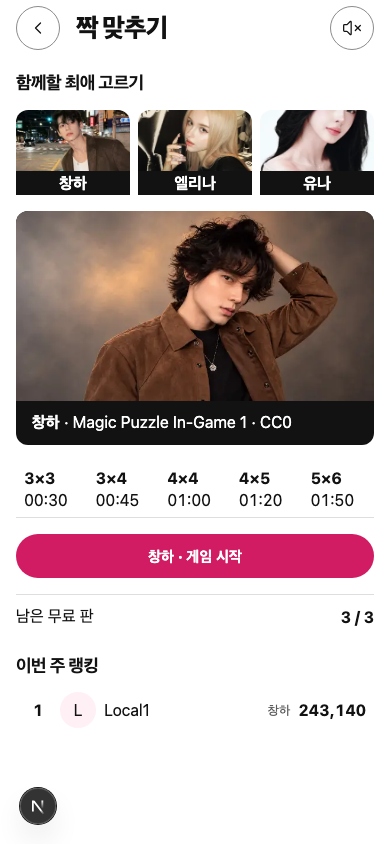
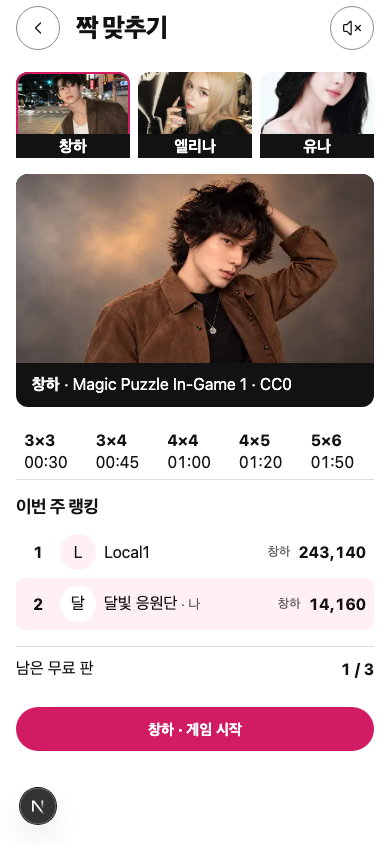
Align lobby controls and round results with the approved layout

diff --git a/apps/web/app/chemi/games/match/screen.tsx b/apps/web/app/chemi/games/match/screen.tsx
@@ -171,6 +171,7 @@ function Session({
   const [publicRows, setPublicRows] = useState<Row[] | null>(null);
   const [challenge, setChallenge] = useState<Challenge | null>(null);
   const [ticket, setTicket] = useState<Ticket | null>(null);
+  const [priorRank, setPriorRank] = useState<number | null>(null);
   const [result, setResult] = useState<Finish | null>(null);
   const [pendingFinish, setPendingFinish] = useState<Submission | null>(null);
   const [error, setError] = useState("");
@@ -318,6 +319,7 @@ function Session({
         throw e;
       }
       startKey.current.choice = "";
+      setPriorRank(lobby?.ranking.find(row => row.isMe)?.place ?? null);
       setTicket(next);
       setResult(null);
       setPendingFinish(null);
@@ -418,7 +420,7 @@ function Session({
       song.pause();
     };
   }, [sound, character, stage]);
-  function ring(enable: boolean) {
+  function ring(enable: boolean, frequency = 440) {
     if (!enable) return;
     try {
       audio.current ??= new AudioContext();
@@ -426,6 +428,7 @@ function Session({
       void context.resume().catch(() => {});
       const tone = context.createOscillator(),
         gain = context.createGain();
+      tone.frequency.value = frequency;
       gain.gain.setValueAtTime(0.035, context.currentTime);
       gain.gain.exponentialRampToValueAtTime(0.001, context.currentTime + 0.09);
       tone.connect(gain).connect(context.destination);
@@ -568,7 +571,7 @@ function Session({
           )}
         </div>
       )}
-      <div className={styles.layout} data-playing={Boolean(active)}>
+      <div className={styles.layout} data-lobby={stage === "start" && !share} data-playing={Boolean(active)}>
         <section className={styles.content}>
           {stage === "start" &&
             (share ? (
@@ -597,8 +600,8 @@ function Session({
               </>
             ) : (
               <>
-                <FanHeading as="h2">{copy.choose}</FanHeading>
-                <div className={styles.choices}>
+
+                <div className={styles.choices} role="group" aria-label={copy.choose}>
                   {characters.map((c) => (
                     <FanAction
                       variant="text"
@@ -626,9 +629,11 @@ function Session({
                   <p><b>{copy[character]}</b> · {["Magic Puzzle In-Game 1","Magic Puzzle In-Game 2","Cozy Puzzle In-Game 1"][characters.indexOf(character)]} · CC0</p>
                 </div>
                 {levelList}
-                <StageAction disabled={working || !auth.ready || (auth.authenticated && !lobby)} onClick={() => void start(character)}>
-                  {copy[character]} · {copy.start}
-                </StageAction>
+                <div className={styles.startAction}>
+                  <StageAction disabled={working || !auth.ready || (auth.authenticated && !lobby)} onClick={() => void start(character)}>
+                    {copy[character]} · {copy.start}
+                  </StageAction>
+                </div>
                 {lobby?.previous && (
                   <p className={styles.detail}>
                     {copy.lastWeek} <b>{lobby.previous.place}</b>
@@ -645,7 +650,7 @@ function Session({
             <>
               <div className={styles.stageLine}><span>{copy.record}</span><strong className={numberStyles.xl}>{active.score.toLocaleString(locale)}</strong></div>
               <progress aria-label={copy.time} data-urgent={active.remaining <= FPS * 10} value={active.remaining} max={LEVELS[active.stage-1].seconds * FPS} />
-              <dl className={styles.hud}>
+              <dl className={styles.hud} data-urgent={active.remaining <= FPS * 10}>
                 <div>
                   <FanText as="dt" role="meta">
                     {copy.time}
@@ -715,7 +720,9 @@ function Session({
                           ...(open ? [photo + 1] : []),
                         ].join(" ")}
                         onClick={() => {
-                          ring(sound);
+                          const isSecond = active.first >= 0;
+                          const paired = isSecond && active.layout[active.first] === photo;
+                          ring(sound, isSecond ? (paired ? 784 : 220) : 440);
                           tap(index);
                         }}
                       >
@@ -821,7 +828,7 @@ function Session({
               <div className={styles.stageLine}><span>{copy.record}</span><strong className={numberStyles.xl}>{view.score.toLocaleString(locale)}</strong></div>
               <p>{copy.pairs} +{view.pairs * 100} · CLEAR +{view.clearPoints} · {copy.time} +{view.timePoints} · {copy.accuracy} +{view.accuracyPoints}</p>
               <div className={styles.souvenir}>
-                {art.cards.slice(0, 2).map((src) => (
+                {faces.slice(0, 5).map((src) => (
                   <Image
                     width={360}
                     height={480}
@@ -852,6 +859,7 @@ function Session({
                       {copy.rank}
                     </FanText>
                     <dd className={numberStyles.xl}>
+                      {priorRank !== null && priorRank !== rows.find(r => r.isMe)?.place && <>{priorRank} → </>}
                       {rows.find((r) => r.isMe)?.place}
                     </dd>
                   </div>
@@ -882,6 +890,7 @@ function Session({
                   {isTrial ? copy.signIn : copy.playAgain}
                 </StageAction>
               )}
+              {result && !isTrial && <FanAction href={`/chemi?locale=${locale}`}>{copy.back}</FanAction>}
               {result?.shareId && (
                 <FanAction onClick={() => void shareResult()}>
                   {copied ? copy.copied : copy.share}

diff --git a/apps/web/app/chemi/games/match/match.module.css b/apps/web/app/chemi/games/match/match.module.css
@@ -453,7 +453,7 @@
   padding-bottom: var(--space-2);
 }
 .stageLine strong { font-variant-numeric: tabular-nums; }
-.content progress[data-urgent="true"] { accent-color: var(--color-danger); }
+.content progress[data-urgent="true"] { accent-color: var(--color-error); }
 @media (width < 48rem) {
   .shell[data-stage="start"] .choices button > span { position: relative; }
   .shell[data-stage="start"] .choices img { aspect-ratio: 4 / 3; }
@@ -494,3 +494,32 @@
 @media (width < 48rem) {
   .clearPanel { margin: auto auto 0; padding-bottom: max(var(--space-4), env(safe-area-inset-bottom)); }
 }
+
+.startAction > button { width: 100%; }
+.layout[data-lobby="true"] .content { display: contents; }
+.layout[data-lobby="true"] .choices [aria-pressed="true"] img {
+  outline: 2px solid var(--color-accent);
+  outline-offset: -2px;
+}
+.layout[data-lobby="true"] .ranking { grid-row: 4; }
+.layout[data-lobby="true"] .startAction { order: 2; }
+.souvenir img { width: 18%; }
+@media (width >= 48rem) {
+  .layout[data-lobby="true"] {
+    grid-template-columns: minmax(96px, 136px) minmax(0, 1fr) minmax(260px, 320px);
+    grid-template-rows: auto auto auto minmax(0, 1fr);
+    align-items: start;
+  }
+  .layout[data-lobby="true"] .choices { grid-column: 1; grid-row: 1 / span 5; }
+  .layout[data-lobby="true"] .lobbyHero {
+    grid-column: 2;
+    grid-row: 1 / span 5;
+    height: clamp(480px, 78dvh, 784px);
+  }
+  .layout[data-lobby="true"] .ranking { grid-column: 3; grid-row: 1; }
+  .layout[data-lobby="true"] .levelList { grid-column: 3; grid-row: 2; grid-template-columns: 1fr; }
+  .layout[data-lobby="true"] .levelList li { display: flex; justify-content: space-between; }
+  .layout[data-lobby="true"] .detail { grid-column: 3; }
+  .layout[data-lobby="true"] .startAction { grid-column: 3; }
+}
+.hud[data-urgent="true"] > :first-child { color: var(--color-error); }
